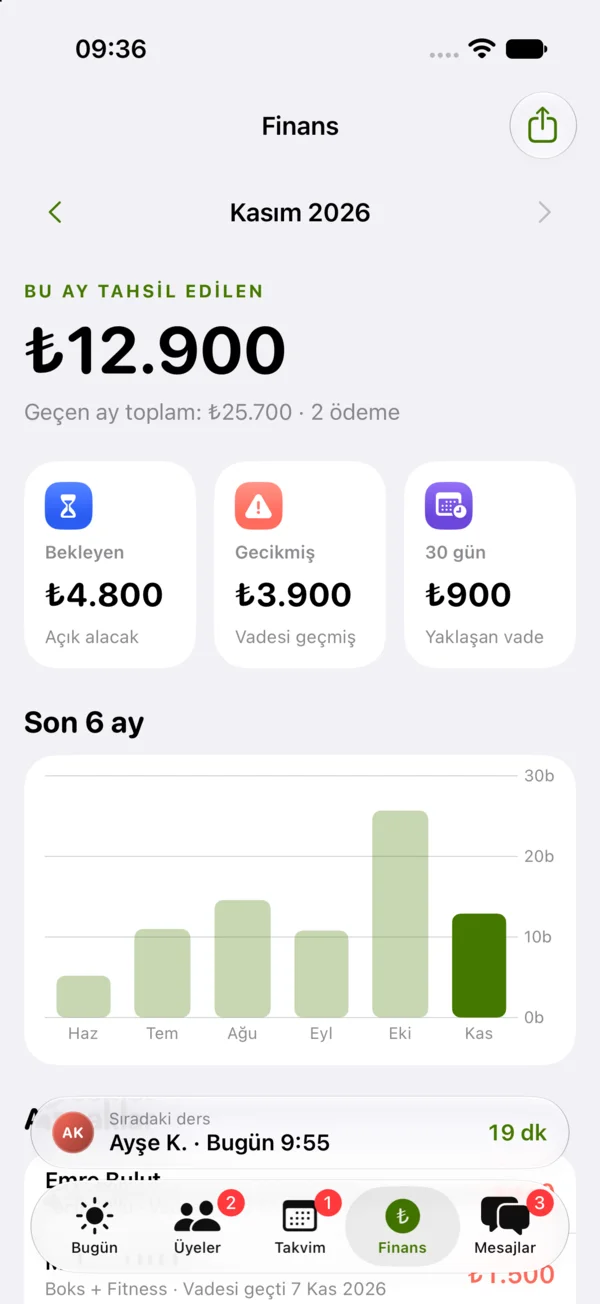
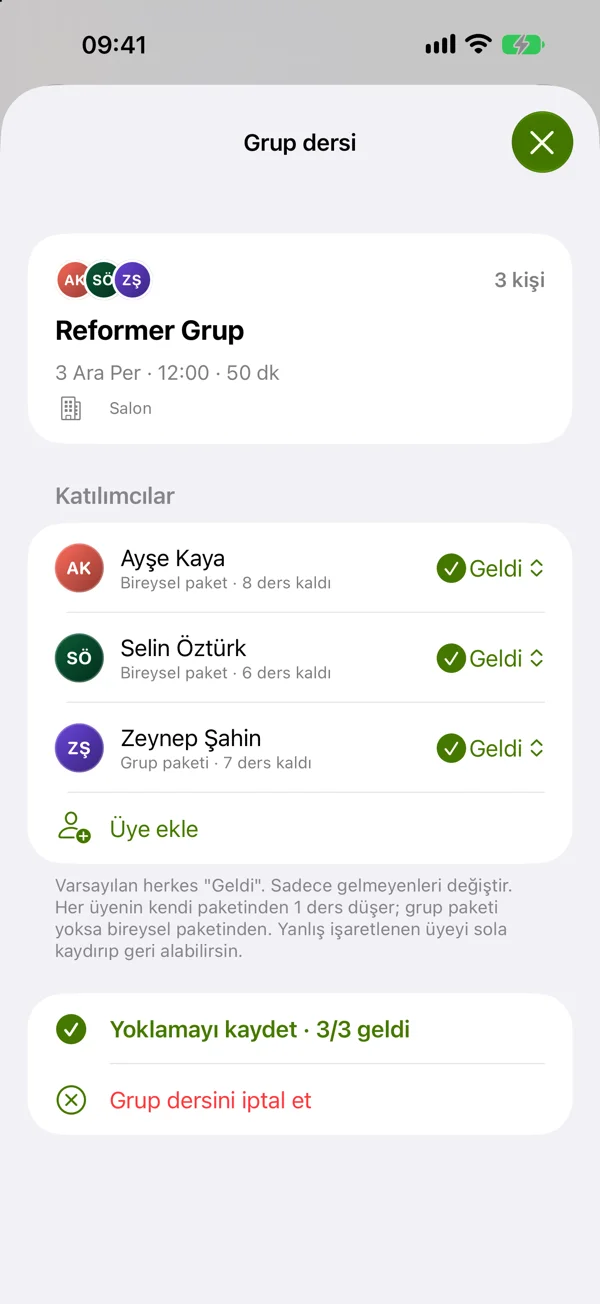
PT Coach: group sessions, QR check-in, new screenshots
- Two new showcases (group sessions, QR check-in) and five fresh screenshots.
- Description and plan lists mention group sessions and check-in.
- Privacy policy: what clients see in group sessions; what the check-in QR contains.
- App Store ID set (only used once the app is live).

diff --git a/src/lib/apps.ts b/src/lib/apps.ts
@@ -969,15 +969,15 @@ export const apps: AppEntry[] = [
       EN: "For personal trainers and their clients.",
     },
     description: {
-      TR: "PT Coach, kişisel antrenörlerin üyelerini, derslerini ve ödemelerini tek yerden yönettiği bir uygulama. Üyeler QR kod ile katılır; programını, ölçümlerini ve gelişimini kendi telefonundan takip eder. Sunucu yok: veriler eğitmenin kendi iCloud hesabında durur.",
-      EN: "PT Coach lets personal trainers manage their clients, sessions and payments in one place. Clients join with a QR code and follow their program, measurements and progress on their own phone. No servers: data lives in the trainer's own iCloud account.",
+      TR: "PT Coach, kişisel antrenörlerin üyelerini, bireysel ve grup derslerini ve ödemelerini tek yerden yönettiği bir uygulama. Üyeler QR kod ile katılır, derse geldiğinde giriş QR'ını okutur; programını, ölçümlerini ve gelişimini kendi telefonundan takip eder. Sunucu yok: veriler eğitmenin kendi iCloud hesabında durur.",
+      EN: "PT Coach lets personal trainers manage their clients, one-to-one and group sessions, and payments in one place. Clients join with a QR code, check in to a session by scanning their QR, and follow their program, measurements and progress on their own phone. No servers: data lives in the trainer's own iCloud account.",
     },
-    appStoreId: undefined, // TODO: App Store ID'sini ekle
+    appStoreId: "6839493915", // Takes effect when status is "live"
     platforms: ["iPhone"],
     category: { TR: "Sağlık ve Fitness", EN: "Health & Fitness" },
     accent: { from: "#10261A", to: "#C6FF3D", glow: "rgba(198, 255, 61, 0.40)" },
     hasIcon: true,
-    screenshots: 3,
+    screenshots: 5,
     links: {
       supportEmail: "info@woowcode.com",
     },
@@ -1044,6 +1044,34 @@ export const apps: AppEntry[] = [
         screen: 2,
       },
       {
+        id: "group",
+        eyebrow: { TR: "Grup dersi", EN: "Group sessions" },
+        title: { TR: "Grup dersinde tek dokunuşla yoklama.", EN: "Group attendance in one tap." },
+        body: {
+          TR: "Düzenli gruplarını kaydet, grup dersini tek seferde planla. Ders bitince herkesi tek ekrandan işaretle; her üyenin kendi paketinden bir ders düşer.",
+          EN: "Save your regular groups and plan a group session in one go. Mark everyone on one screen when it ends; each client's own package goes down by one.",
+        },
+        bullets: [
+          { TR: "Bireysel ve grup paketleri", EN: "One-to-one and group packages" },
+          { TR: "Üyeler yalnızca grubun adını ve kişi sayısını görür", EN: "Clients only see the group's name and size" },
+        ],
+        screen: 3,
+      },
+      {
+        id: "checkin",
+        eyebrow: { TR: "QR ile yoklama", EN: "QR check-in" },
+        title: { TR: "QR'ı okut, ders kendiliğinden düşsün.", EN: "Scan the QR, the session is counted." },
+        body: {
+          TR: "Üye derse geldiğinde uygulamasındaki giriş QR'ını gösterir, sen okutursun; o saatteki dersi tamamlanır ve paketinden düşer. Yanlışlıkla olursa tek dokunuşla geri al.",
+          EN: "When a client arrives they show the check-in QR in their app and you scan it; the session at that time is completed and taken off their package. Undo it in one tap if needed.",
+        },
+        bullets: [
+          { TR: "Uygulamasız üyeler için yazdırılabilir QR kartı", EN: "Printable QR card for clients without the app" },
+          { TR: "İstersen düşmeden önce onay sorar", EN: "Can ask before counting, if you prefer" },
+        ],
+        screen: 5,
+      },
+      {
         id: "finance",
         eyebrow: { TR: "Finans", EN: "Finance" },
         title: { TR: "Kimin ne kadar ödediğini bil.", EN: "Know who paid what." },
@@ -1055,7 +1083,7 @@ export const apps: AppEntry[] = [
           { TR: "Gelecek ve geçmiş alacaklar", EN: "Upcoming and past receivables" },
           { TR: "Son 6 ayın kazanç grafiği", EN: "Earnings chart for the last 6 months" },
         ],
-        screen: 3,
+        screen: 4,
       },
     ],
     extra: [
@@ -1095,6 +1123,7 @@ export const apps: AppEntry[] = [
           { TR: "Üyeler için her zaman ücretsiz", EN: "Always free for clients" },
           { TR: "Program, ölçümler, dersler ve ödemeler", EN: "Program, measurements, sessions and payments" },
           { TR: "\"Derse gelemeyeceğim\" ve mesajlaşma", EN: "\"I can't make it\" and messaging" },
+          { TR: "Giriş QR'ı ile derse hızlı giriş", EN: "Quick check-in with your QR" },
         ],
       },
       plus: {
@@ -1102,6 +1131,7 @@ export const apps: AppEntry[] = [
         items: [
           { TR: "Sınırsız üye", EN: "Unlimited clients" },
           { TR: "Takvim, paket ve ödeme takibi", EN: "Calendar, package and payment tracking" },
+          { TR: "Grup dersleri ve QR ile yoklama", EN: "Group sessions and QR check-in" },
           { TR: "Program, beslenme, ölçüm ve fotoğraflar", EN: "Programs, nutrition, measurements and photos" },
           { TR: "Kazanç ve alacak raporları", EN: "Earnings and receivables reports" },
         ],

diff --git a/content/ptcoach/GIZLILIK-POLITIKASI.md b/content/ptcoach/GIZLILIK-POLITIKASI.md
@@ -43,6 +43,8 @@ onaylar. Rızanın sürümü ve tarihi eğitmenin kaydında tutulur.
 
 - Bir üyeye ait bilgileri yalnızca o üyenin **eğitmeni** ve **üyenin kendisi** görebilir.
 - "Eğitmen Notları" yalnızca eğitmen tarafından görülür.
+- Grup derslerinde üye yalnızca grubun adını ve kişi sayısını görür; diğer katılımcıların adlarını ve bilgilerini göremez.
+- Derse giriş için kullanılan "Giriş QR'ı" üyeye özel bir kod içerir ve yalnızca eğitmenin uygulamasında okutulduğunda işe yarar; sağlık veya kişisel bilgi içermez.
 - Bildirimlerde sağlık verisi gösterilmez.
 - WOOWCODE bu verilere erişemez, görüntüleyemez ve işlemez.
 

diff --git a/content/ptcoach/PRIVACY-POLICY.md b/content/ptcoach/PRIVACY-POLICY.md
@@ -43,6 +43,8 @@ The version and date of each consent are kept in the trainer's records.
 
 - A client's information can be seen only by **their trainer** and **the client**.
 - "Trainer Notes" are visible to the trainer only.
+- In group sessions a client only sees the group's name and the number of participants; they cannot see the other participants' names or details.
+- The check-in QR contains a code unique to the client and only works when scanned in their trainer's app; it contains no health or personal details.
 - Notifications never show health data.
 - WOOWCODE cannot access, view or process this data.
 
